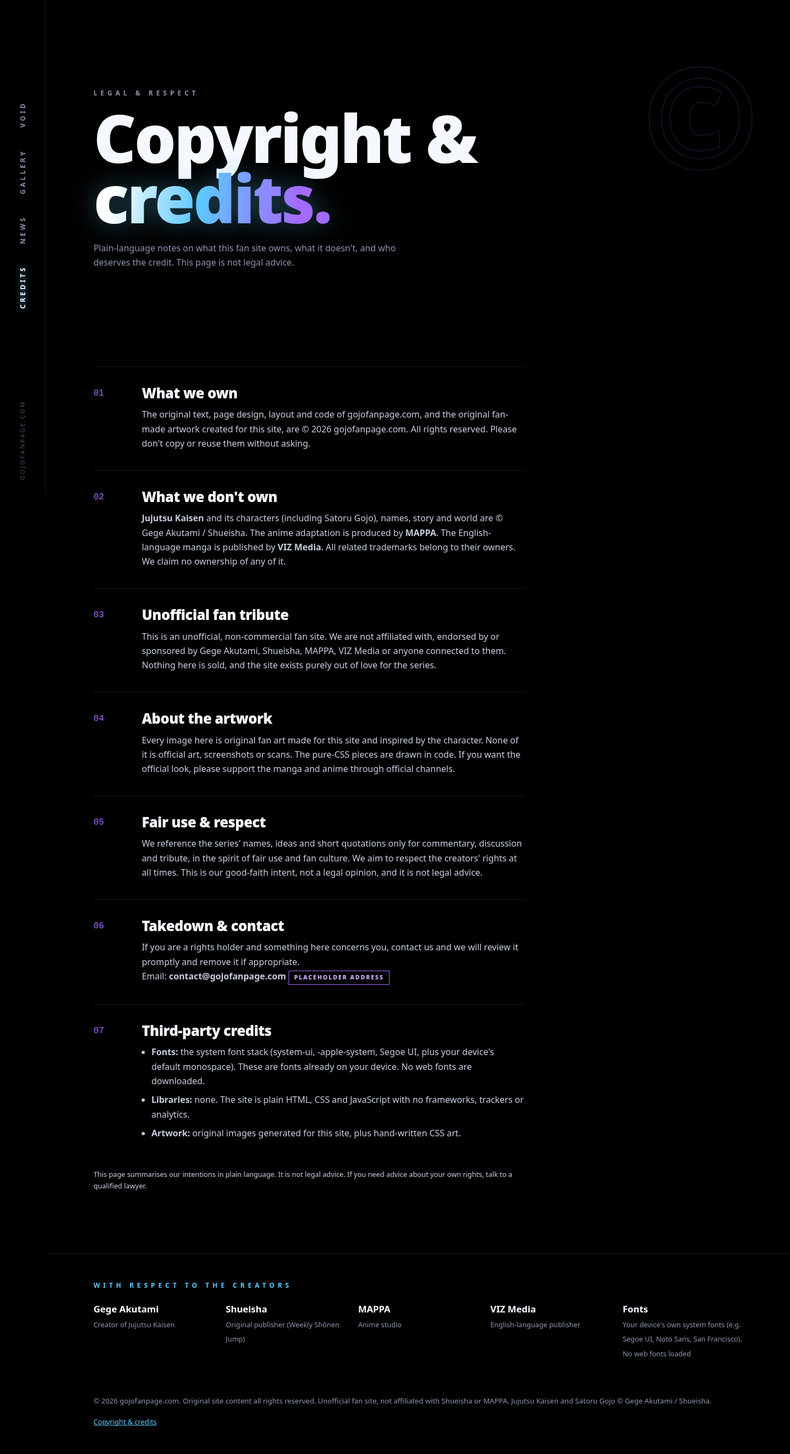
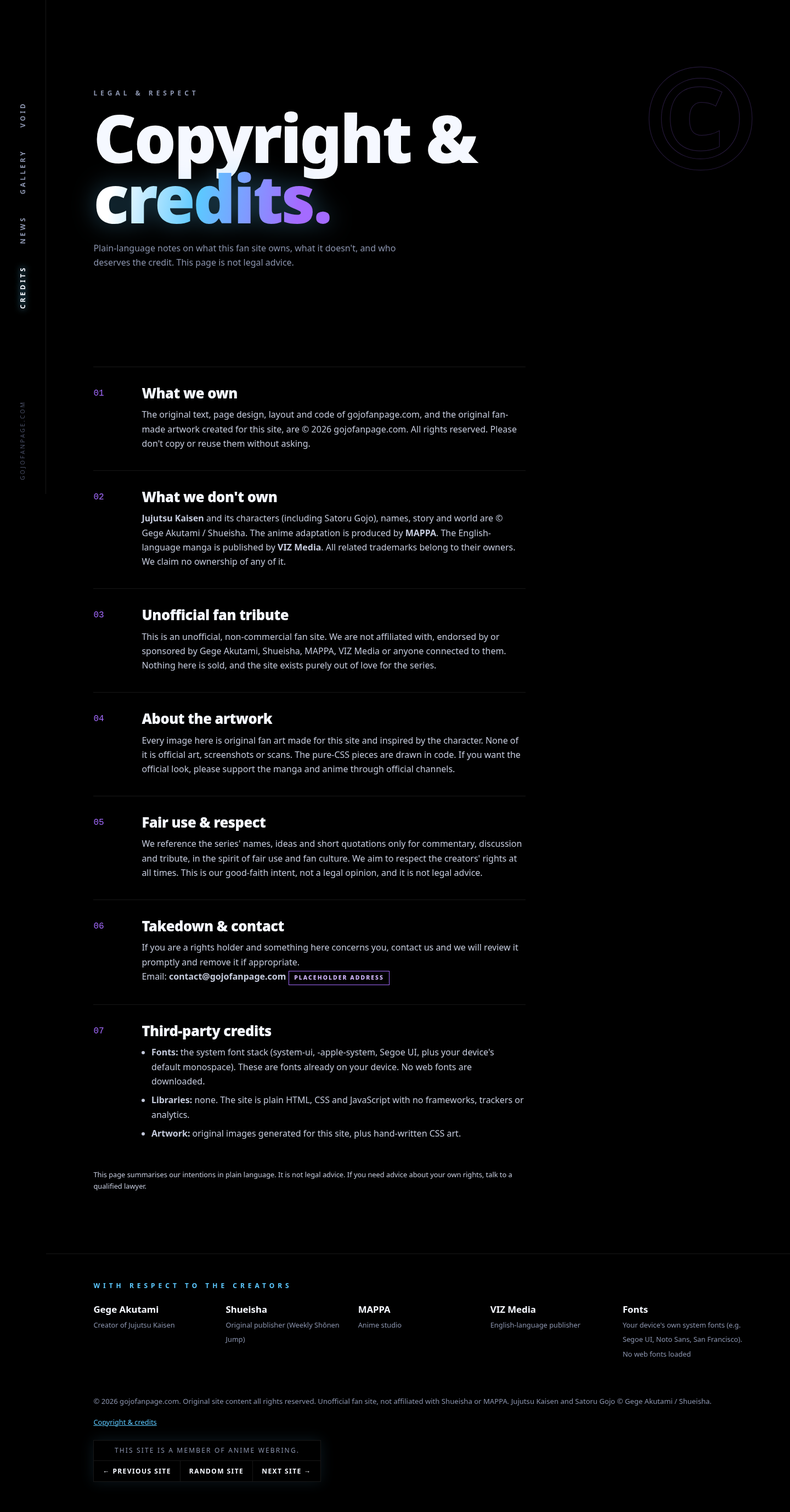
Anime Webring footer widget, commented affiliate disclosure, 3 original news posts, screenshots (local, unpublished)

diff --git a/news.html b/news.html
@@ -2,6 +2,6 @@
 <a class="skip" href="#main">Skip to content</a><canvas id="void" aria-hidden="true"></canvas>
 <nav class="rail" aria-label="Main"><a href="index.html" aria-label="gojofanpage.com home"><span class="mark"></span></a><ul><li><a href="index.html">Void</a></li><li><a href="gallery.html">Gallery</a></li><li><a href="news.html" aria-current="page">News</a></li><li><a href="copyright.html">Credits</a></li></ul><small>GOJOFANPAGE.COM</small></nav>
 <div class="wrap"><main id="main"><section class="phead"><span class="big" aria-hidden="true">NEWS</span><p class="kicker">Transmissions</p><h1>Fan <em>news.</em></h1><p>Recent Jujutsu Kaisen news, summarised in our own words. Every item links to its original source. Dates are each article's publication date, checked October 23, 2026.</p></section>
-<div class="filters" role="group" aria-label="Filter news by category"><button data-f="all" aria-pressed="true">All</button><button data-f="anime" aria-pressed="false">Anime</button><button data-f="manga" aria-pressed="false">Manga</button><button data-f="merch" aria-pressed="false">Merch</button><button data-f="events" aria-pressed="false">Events</button></div>
+<div class="filters" role="group" aria-label="Filter news by category"><button data-f="all" aria-pressed="true">All</button><button data-f="anime" aria-pressed="false">Anime</button><button data-f="manga" aria-pressed="false">Manga</button><button data-f="merch" aria-pressed="false">Merch</button><button data-f="events" aria-pressed="false">Events</button><button data-f="site" aria-pressed="false">Site</button></div>
 <p class="sr" role="status" aria-live="polite" id="fstat"></p>
-<section class="timeline"><article class="entry reveal" data-cat="events"><time datetime="2026-10-19">OCT 19, 2026</time><div><span class="pill v">Verified</span><span class="pill">Events</span><h3>Season 4 news promised for the Jump Festa 2027 stage</h3><p>The official anime team says the latest Season 4 (The Culling Game Part 2) information will be shared at its Jump Super Stage on December 19. Cast members Junya Enoki, Mikako Komatsu, Kazuya Nakai and Daisuke Namikawa are scheduled to appear.</p><a class="src" href="https://animemojo.com/shonen/jujutsu-kaisen-season-4-news-is-coming-at-jump-festa-2027-as-the-anime-confirms-its-stage-cast-a21134" target="_blank" rel="noopener noreferrer">Source: AnimeMojo ↗</a></div></article><article class="entry reveal" data-cat="events"><time datetime="2026-10-04">OCT 4, 2026</time><div><span class="pill v">Verified</span><span class="pill">Events</span><h3>Final Exhibition in Shinjuku adds Shinjuku Showdown material</h3><p>The touring Jujutsu Kaisen exhibition ends at Shinjuku Sumitomo Building Triangle Square from December 25, 2026 to January 25, 2027. This last stop adds never-before-shown storyboards and sketches from Volumes 28–30, Q&A commentary from Gege Akutami, and two random visitor stickers per ticket.</p><a class="src" href="https://us.oricon-group.com/news/9341/" target="_blank" rel="noopener noreferrer">Source: ORICON NEWS ↗</a></div></article><article class="entry reveal" data-cat="manga"><time datetime="2026-09-26">SEP 26, 2026</time><div><span class="pill v">Verified</span><span class="pill">Manga</span><h3>VIZ dates the English print release of Jujutsu Kaisen Modulo</h3><p>Volume 1 of the sequel manga Jujutsu Kaisen Modulo (story by Gege Akutami, art by Yuji Iwasaki) arrives in U.S. print on January 5, 2027. It comes with a standard cover and three retailer-variant covers.</p><a class="src" href="https://comicbook.com/anime/news/jujutsu-kaisen-sequel-confirms-u-s-release-date-with-first-look/" target="_blank" rel="noopener noreferrer">Source: ComicBook.com ↗</a></div></article><article class="entry reveal" data-cat="anime"><time datetime="2026-09-01">SEP 1, 2026</time><div><span class="pill v">Verified</span><span class="pill">Anime</span><h3>New Season 4 visual revealed at Juju Fest 2026</h3><p>A new key visual for The Culling Game Part 2, centred on Sukuna, was shown around Juju Fest 2026 (August 29–30, K-Arena Yokohama), the anime's 5th-anniversary finale event. There is still no release date.</p><a class="src" href="https://samlover.com/2026/09/01/jujutsu-kaisen-season-4-juju-fest-2026/" target="_blank" rel="noopener noreferrer">Source: Samlover ↗</a></div></article><article class="entry reveal" data-cat="merch"><time datetime="2026-07-23">JUL 23, 2026</time><div><span class="pill v">Verified</span><span class="pill">Merch</span><h3>Yokohama collaboration: café, merch and holographic stickers</h3><p>For the anime's 5th anniversary, Yokohama hosted a citywide collaboration through August. It included a themed café at Cafe Fan Base, exclusive acrylic goods and nine holographic mini-character stickers, among them a Gojo, Geto and Shoko design at Yokohama World Porters.</p><a class="src" href="https://us.oricon-group.com/news/9096/" target="_blank" rel="noopener noreferrer">Source: ORICON NEWS ↗</a></div></article><article class="entry reveal" data-cat="anime"><time datetime="2026-06-19">JUN 19, 2026</time><div><span class="pill v">Verified</span><span class="pill">Anime</span><h3>Season 4: The Culling Game Part 2 teaser revealed</h3><p>MAPPA's 15th-anniversary lineup livestream debuted the first Season 4 teaser and confirmed the season is in production. Takeru Sato is directing. No release window yet.</p><a class="src" href="https://www.animenewsnetwork.com/news/2026-06-19/jujutsu-kaisen-season-4-the-culling-game-part-2-anime-reveals-teaser-video/.238700" target="_blank" rel="noopener noreferrer">Source: Anime News Network ↗</a></div></article><p class="empty hidden">No items in this category yet.</p></section></main><div class="credits" aria-label="Credits"><p class="kicker">With respect to the creators</p><ul><li><b>Gege Akutami</b><span>Creator of Jujutsu Kaisen</span></li><li><b>Shueisha</b><span>Original publisher (Weekly Shōnen Jump)</span></li><li><b>MAPPA</b><span>Anime studio</span></li><li><b>VIZ Media</b><span>English-language publisher</span></li><li><b>Fonts</b><span>Your device's own system fonts (e.g. Segoe UI, Noto Sans, San Francisco). No web fonts loaded</span></li></ul></div><footer><p>© 2026 gojofanpage.com. Original site content all rights reserved. Unofficial fan site, not affiliated with Shueisha or MAPPA. Jujutsu Kaisen and Satoru Gojo © Gege Akutami / Shueisha.</p><p class="fine"><a href="copyright.html">Copyright &amp; credits</a></p></footer></div><script src="script.js"></script></body></html>
+<section class="timeline"><article class="entry reveal" data-cat="site"><time datetime="2026-10-23">OCT 23, 2026</time><div><span class="pill v">Original</span><span class="pill">Site update</span><h3>Welcome to gojofanpage.com</h3><p>gojofanpage.com is now open: an unofficial, fan-made home for everything Satoru Gojo. Every image here is original fan art made for this site, and every news item links to its source. We'll keep adding art, spotlights and verified news, and we're always happy to hear what fans want to see next.</p></div></article><article class="entry reveal" data-cat="site"><time datetime="2026-10-23">OCT 23, 2026</time><div><span class="pill v">Original</span><span class="pill">Spotlight</span><h3>Character spotlight: Satoru Gojo</h3><p>In Gege Akutami's Jujutsu Kaisen (published by Shueisha in Weekly Shōnen Jump), Gojo is a special grade jujutsu sorcerer and a teacher at Tokyo Jujutsu High. He is the heir to the Limitless technique and was born with the Six Eyes, and his Domain Expansion is Unlimited Void. What keeps fans coming back is the contrast: a playful, teasing mentor to his students who is also treated as the strongest sorcerer of his time. Which Gojo moment is your favourite?</p></div></article><article class="entry reveal" data-cat="site"><time datetime="2026-10-23">OCT 23, 2026</time><div><span class="pill v">Original</span><span class="pill">Community</span><h3>Call for fan art</h3><p>We want to show off the community's talent. If you make your own original Gojo or Jujutsu Kaisen fan art, we'd love to feature it in a future gallery update, with full credit to you. Please only share work you made yourself: no traced, AI-copied or official artwork. Submission details will be posted here soon.</p></div></article><article class="entry reveal" data-cat="events"><time datetime="2026-10-19">OCT 19, 2026</time><div><span class="pill v">Verified</span><span class="pill">Events</span><h3>Season 4 news promised for the Jump Festa 2027 stage</h3><p>The official anime team says the latest Season 4 (The Culling Game Part 2) information will be shared at its Jump Super Stage on December 19. Cast members Junya Enoki, Mikako Komatsu, Kazuya Nakai and Daisuke Namikawa are scheduled to appear.</p><a class="src" href="https://animemojo.com/shonen/jujutsu-kaisen-season-4-news-is-coming-at-jump-festa-2027-as-the-anime-confirms-its-stage-cast-a21134" target="_blank" rel="noopener noreferrer">Source: AnimeMojo ↗</a></div></article><article class="entry reveal" data-cat="events"><time datetime="2026-10-04">OCT 4, 2026</time><div><span class="pill v">Verified</span><span class="pill">Events</span><h3>Final Exhibition in Shinjuku adds Shinjuku Showdown material</h3><p>The touring Jujutsu Kaisen exhibition ends at Shinjuku Sumitomo Building Triangle Square from December 25, 2026 to January 25, 2027. This last stop adds never-before-shown storyboards and sketches from Volumes 28–30, Q&A commentary from Gege Akutami, and two random visitor stickers per ticket.</p><a class="src" href="https://us.oricon-group.com/news/9341/" target="_blank" rel="noopener noreferrer">Source: ORICON NEWS ↗</a></div></article><article class="entry reveal" data-cat="manga"><time datetime="2026-09-26">SEP 26, 2026</time><div><span class="pill v">Verified</span><span class="pill">Manga</span><h3>VIZ dates the English print release of Jujutsu Kaisen Modulo</h3><p>Volume 1 of the sequel manga Jujutsu Kaisen Modulo (story by Gege Akutami, art by Yuji Iwasaki) arrives in U.S. print on January 5, 2027. It comes with a standard cover and three retailer-variant covers.</p><a class="src" href="https://comicbook.com/anime/news/jujutsu-kaisen-sequel-confirms-u-s-release-date-with-first-look/" target="_blank" rel="noopener noreferrer">Source: ComicBook.com ↗</a></div></article><article class="entry reveal" data-cat="anime"><time datetime="2026-09-01">SEP 1, 2026</time><div><span class="pill v">Verified</span><span class="pill">Anime</span><h3>New Season 4 visual revealed at Juju Fest 2026</h3><p>A new key visual for The Culling Game Part 2, centred on Sukuna, was shown around Juju Fest 2026 (August 29–30, K-Arena Yokohama), the anime's 5th-anniversary finale event. There is still no release date.</p><a class="src" href="https://samlover.com/2026/09/01/jujutsu-kaisen-season-4-juju-fest-2026/" target="_blank" rel="noopener noreferrer">Source: Samlover ↗</a></div></article><article class="entry reveal" data-cat="merch"><time datetime="2026-07-23">JUL 23, 2026</time><div><span class="pill v">Verified</span><span class="pill">Merch</span><h3>Yokohama collaboration: café, merch and holographic stickers</h3><p>For the anime's 5th anniversary, Yokohama hosted a citywide collaboration through August. It included a themed café at Cafe Fan Base, exclusive acrylic goods and nine holographic mini-character stickers, among them a Gojo, Geto and Shoko design at Yokohama World Porters.</p><a class="src" href="https://us.oricon-group.com/news/9096/" target="_blank" rel="noopener noreferrer">Source: ORICON NEWS ↗</a></div></article><article class="entry reveal" data-cat="anime"><time datetime="2026-06-19">JUN 19, 2026</time><div><span class="pill v">Verified</span><span class="pill">Anime</span><h3>Season 4: The Culling Game Part 2 teaser revealed</h3><p>MAPPA's 15th-anniversary lineup livestream debuted the first Season 4 teaser and confirmed the season is in production. Takeru Sato is directing. No release window yet.</p><a class="src" href="https://www.animenewsnetwork.com/news/2026-06-19/jujutsu-kaisen-season-4-the-culling-game-part-2-anime-reveals-teaser-video/.238700" target="_blank" rel="noopener noreferrer">Source: Anime News Network ↗</a></div></article><p class="empty hidden">No items in this category yet.</p></section></main><div class="credits" aria-label="Credits"><p class="kicker">With respect to the creators</p><ul><li><b>Gege Akutami</b><span>Creator of Jujutsu Kaisen</span></li><li><b>Shueisha</b><span>Original publisher (Weekly Shōnen Jump)</span></li><li><b>MAPPA</b><span>Anime studio</span></li><li><b>VIZ Media</b><span>English-language publisher</span></li><li><b>Fonts</b><span>Your device's own system fonts (e.g. Segoe UI, Noto Sans, San Francisco). No web fonts loaded</span></li></ul></div><footer><p>© 2026 gojofanpage.com. Original site content all rights reserved. Unofficial fan site, not affiliated with Shueisha or MAPPA. Jujutsu Kaisen and Satoru Gojo © Gege Akutami / Shueisha.</p><p class="fine"><a href="copyright.html">Copyright &amp; credits</a></p><div class="webring" aria-label="Anime Webring"><p class="wr-t">This site is a member of Anime Webring.</p><div class="wr-l"><a href="https://webri.ng/webring/animewebring/previous?via=https%3A%2F%2Fgojofanpage.com%2F">← Previous Site</a><a href="https://webri.ng/webring/animewebring/random?via=https%3A%2F%2Fgojofanpage.com%2F">Random Site</a><a href="https://webri.ng/webring/animewebring/next?via=https%3A%2F%2Fgojofanpage.com%2F">Next Site →</a></div></div><!-- AFFILIATE DISCLOSURE (enable only after the boss approves an affiliate program): <p class="fine disclosure">Some links on this site are affiliate links. If you buy through them, gojofanpage.com may earn a small commission at no extra cost to you.</p> --></footer></div><script src="script.js"></script></body></html>

diff --git a/gallery.html b/gallery.html
@@ -2,4 +2,4 @@
 <a class="skip" href="#main">Skip to content</a><canvas id="void" aria-hidden="true"></canvas>
 <nav class="rail" aria-label="Main"><a href="index.html" aria-label="gojofanpage.com home"><span class="mark"></span></a><ul><li><a href="index.html">Void</a></li><li><a href="gallery.html" aria-current="page">Gallery</a></li><li><a href="news.html">News</a></li><li><a href="copyright.html">Credits</a></li></ul><small>GOJOFANPAGE.COM</small></nav>
 <div class="wrap"><main id="main"><section class="phead"><span class="big" aria-hidden="true">∞</span><p class="kicker">Gallery</p><h1>Art from<br>the <em>void.</em></h1><p>Original Gojo-inspired pieces, generated for this site plus pure-CSS studies. No official images are used. Select any tile to expand it.</p></section>
-<section class="bento"><button class="tile w2 h2 reveal" aria-label="Open The Honored One"><img src="img/hero-void.jpg" alt="Original artwork: White-haired blindfolded sorcerer silhouette in a cosmic void" loading="lazy"><span class="cap"><span>Original art</span><b>The Honored One</b></span></button><button class="tile h2 reveal" aria-label="Open Six Eyes"><img src="img/six-eyes.jpg" alt="Original artwork: Crystalline glowing blue eye" loading="lazy"><span class="cap"><span>Original art</span><b>Six Eyes</b></span></button><button class="tile  reveal" aria-label="Open Infinity Rings"><div class="css-art ca1" aria-hidden="true"></div><span class="cap"><span>CSS art</span><b>Infinity Rings</b></span></button><button class="tile h2 reveal" aria-label="Open Unlimited Void"><img src="img/void-landscape.jpg" alt="Original artwork: Twin galaxies and a burst of blue-violet light" loading="lazy"><span class="cap"><span>Original art</span><b>Unlimited Void</b></span></button><button class="tile w2 reveal" aria-label="Open Light Streaks"><div class="css-art ca3" aria-hidden="true"></div><span class="cap"><span>CSS art</span><b>Light Streaks</b></span></button><button class="tile full h2 reveal" aria-label="Open Hollow Purple"><img src="img/hollow-purple.jpg" alt="Original artwork: Red and blue orbs fusing into violet energy" loading="lazy"><span class="cap"><span>Original art</span><b>Hollow Purple</b></span></button><button class="tile  reveal" aria-label="Open Domain Spiral"><div class="css-art ca2" aria-hidden="true"></div><span class="cap"><span>CSS art</span><b>Domain Spiral</b></span></button></section></main><div class="credits" aria-label="Credits"><p class="kicker">With respect to the creators</p><ul><li><b>Gege Akutami</b><span>Creator of Jujutsu Kaisen</span></li><li><b>Shueisha</b><span>Original publisher (Weekly Shōnen Jump)</span></li><li><b>MAPPA</b><span>Anime studio</span></li><li><b>VIZ Media</b><span>English-language publisher</span></li><li><b>Fonts</b><span>Your device's own system fonts (e.g. Segoe UI, Noto Sans, San Francisco). No web fonts loaded</span></li></ul></div><footer><p>© 2026 gojofanpage.com. Original site content all rights reserved. Unofficial fan site, not affiliated with Shueisha or MAPPA. Jujutsu Kaisen and Satoru Gojo © Gege Akutami / Shueisha.</p><p class="fine"><a href="copyright.html">Copyright &amp; credits</a></p></footer></div><dialog aria-labelledby="lbt"><div class="lb-img"></div><div class="bar"><b class="lb-t" id="lbt"></b><button class="close">Close ✕</button></div></dialog><script src="script.js"></script></body></html>
+<section class="bento"><button class="tile w2 h2 reveal" aria-label="Open The Honored One"><img src="img/hero-void.jpg" alt="Original artwork: White-haired blindfolded sorcerer silhouette in a cosmic void" loading="lazy"><span class="cap"><span>Original art</span><b>The Honored One</b></span></button><button class="tile h2 reveal" aria-label="Open Six Eyes"><img src="img/six-eyes.jpg" alt="Original artwork: Crystalline glowing blue eye" loading="lazy"><span class="cap"><span>Original art</span><b>Six Eyes</b></span></button><button class="tile  reveal" aria-label="Open Infinity Rings"><div class="css-art ca1" aria-hidden="true"></div><span class="cap"><span>CSS art</span><b>Infinity Rings</b></span></button><button class="tile h2 reveal" aria-label="Open Unlimited Void"><img src="img/void-landscape.jpg" alt="Original artwork: Twin galaxies and a burst of blue-violet light" loading="lazy"><span class="cap"><span>Original art</span><b>Unlimited Void</b></span></button><button class="tile w2 reveal" aria-label="Open Light Streaks"><div class="css-art ca3" aria-hidden="true"></div><span class="cap"><span>CSS art</span><b>Light Streaks</b></span></button><button class="tile full h2 reveal" aria-label="Open Hollow Purple"><img src="img/hollow-purple.jpg" alt="Original artwork: Red and blue orbs fusing into violet energy" loading="lazy"><span class="cap"><span>Original art</span><b>Hollow Purple</b></span></button><button class="tile  reveal" aria-label="Open Domain Spiral"><div class="css-art ca2" aria-hidden="true"></div><span class="cap"><span>CSS art</span><b>Domain Spiral</b></span></button></section></main><div class="credits" aria-label="Credits"><p class="kicker">With respect to the creators</p><ul><li><b>Gege Akutami</b><span>Creator of Jujutsu Kaisen</span></li><li><b>Shueisha</b><span>Original publisher (Weekly Shōnen Jump)</span></li><li><b>MAPPA</b><span>Anime studio</span></li><li><b>VIZ Media</b><span>English-language publisher</span></li><li><b>Fonts</b><span>Your device's own system fonts (e.g. Segoe UI, Noto Sans, San Francisco). No web fonts loaded</span></li></ul></div><footer><p>© 2026 gojofanpage.com. Original site content all rights reserved. Unofficial fan site, not affiliated with Shueisha or MAPPA. Jujutsu Kaisen and Satoru Gojo © Gege Akutami / Shueisha.</p><p class="fine"><a href="copyright.html">Copyright &amp; credits</a></p><div class="webring" aria-label="Anime Webring"><p class="wr-t">This site is a member of Anime Webring.</p><div class="wr-l"><a href="https://webri.ng/webring/animewebring/previous?via=https%3A%2F%2Fgojofanpage.com%2F">← Previous Site</a><a href="https://webri.ng/webring/animewebring/random?via=https%3A%2F%2Fgojofanpage.com%2F">Random Site</a><a href="https://webri.ng/webring/animewebring/next?via=https%3A%2F%2Fgojofanpage.com%2F">Next Site →</a></div></div><!-- AFFILIATE DISCLOSURE (enable only after the boss approves an affiliate program): <p class="fine disclosure">Some links on this site are affiliate links. If you buy through them, gojofanpage.com may earn a small commission at no extra cost to you.</p> --></footer></div><dialog aria-labelledby="lbt"><div class="lb-img"></div><div class="bar"><b class="lb-t" id="lbt"></b><button class="close">Close ✕</button></div></dialog><script src="script.js"></script></body></html>

diff --git a/404.html b/404.html
@@ -1,4 +1,4 @@
 <!doctype html><html lang="en"><head><meta charset="utf-8"><meta name="viewport" content="width=device-width,initial-scale=1"><title>Lost in the Void · gojofanpage.com</title><meta name="description" content="This page drifted into the Unlimited Void. Head back to gojofanpage.com."><meta name="theme-color" content="#000000"><meta property="og:type" content="website"><meta property="og:site_name" content="gojofanpage.com"><meta property="og:title" content="Lost in the Void · gojofanpage.com"><meta property="og:description" content="This page drifted into the Unlimited Void. Head back to gojofanpage.com."><meta property="og:url" content="https://gojofanpage.com/404.html"><meta property="og:image" content="https://gojofanpage.com/img/hero-void.jpg"><meta property="og:image:width" content="1280"><meta property="og:image:height" content="720"><meta property="og:image:alt" content="Original fan artwork: a white-haired sorcerer silhouette in a starry blue-violet void"><meta name="twitter:card" content="summary_large_image"><meta name="twitter:title" content="Lost in the Void · gojofanpage.com"><meta name="twitter:description" content="This page drifted into the Unlimited Void. Head back to gojofanpage.com."><meta name="twitter:image" content="https://gojofanpage.com/img/hero-void.jpg"><link rel="icon" href="/favicon.svg" type="image/svg+xml"><link rel="icon" href="/favicon-32.png" type="image/png" sizes="32x32"><link rel="apple-touch-icon" href="/apple-touch-icon.png"><link rel="stylesheet" href="/style.css"></head><body>
 <a class="skip" href="#main">Skip to content</a><canvas id="void" aria-hidden="true"></canvas>
 <nav class="rail" aria-label="Main"><a href="/index.html" aria-label="gojofanpage.com home"><span class="mark"></span></a><ul><li><a href="/index.html">Void</a></li><li><a href="/gallery.html">Gallery</a></li><li><a href="/news.html" >News</a></li><li><a href="/copyright.html" >Credits</a></li></ul><small>GOJOFANPAGE.COM</small></nav>
-<div class="wrap"><main id="main"><section class="phead"><span class="big" aria-hidden="true">404</span><p class="kicker">Error 404 · Domain not found</p><h1>Lost in the <em>Void.</em></h1><p>This page drifted past Infinity and never arrived. The link may be broken or the page may have moved.</p><div class="cta"><a class="btn" href="/index.html">Return home</a><a class="link" href="/gallery.html">Enter the gallery →</a></div></section></main><div class="credits" aria-label="Credits"><p class="kicker">With respect to the creators</p><ul><li><b>Gege Akutami</b><span>Creator of Jujutsu Kaisen</span></li><li><b>Shueisha</b><span>Original publisher (Weekly Shōnen Jump)</span></li><li><b>MAPPA</b><span>Anime studio</span></li><li><b>VIZ Media</b><span>English-language publisher</span></li><li><b>Fonts</b><span>Your device's own system fonts (e.g. Segoe UI, Noto Sans, San Francisco). No web fonts loaded</span></li></ul></div><footer><p>© 2026 gojofanpage.com. Original site content all rights reserved. Unofficial fan site, not affiliated with Shueisha or MAPPA. Jujutsu Kaisen and Satoru Gojo © Gege Akutami / Shueisha.</p><p class="fine"><a href="/copyright.html">Copyright &amp; credits</a></p></footer></div><script src="/script.js"></script></body></html>
+<div class="wrap"><main id="main"><section class="phead"><span class="big" aria-hidden="true">404</span><p class="kicker">Error 404 · Domain not found</p><h1>Lost in the <em>Void.</em></h1><p>This page drifted past Infinity and never arrived. The link may be broken or the page may have moved.</p><div class="cta"><a class="btn" href="/index.html">Return home</a><a class="link" href="/gallery.html">Enter the gallery →</a></div></section></main><div class="credits" aria-label="Credits"><p class="kicker">With respect to the creators</p><ul><li><b>Gege Akutami</b><span>Creator of Jujutsu Kaisen</span></li><li><b>Shueisha</b><span>Original publisher (Weekly Shōnen Jump)</span></li><li><b>MAPPA</b><span>Anime studio</span></li><li><b>VIZ Media</b><span>English-language publisher</span></li><li><b>Fonts</b><span>Your device's own system fonts (e.g. Segoe UI, Noto Sans, San Francisco). No web fonts loaded</span></li></ul></div><footer><p>© 2026 gojofanpage.com. Original site content all rights reserved. Unofficial fan site, not affiliated with Shueisha or MAPPA. Jujutsu Kaisen and Satoru Gojo © Gege Akutami / Shueisha.</p><p class="fine"><a href="/copyright.html">Copyright &amp; credits</a></p><div class="webring" aria-label="Anime Webring"><p class="wr-t">This site is a member of Anime Webring.</p><div class="wr-l"><a href="https://webri.ng/webring/animewebring/previous?via=https%3A%2F%2Fgojofanpage.com%2F">← Previous Site</a><a href="https://webri.ng/webring/animewebring/random?via=https%3A%2F%2Fgojofanpage.com%2F">Random Site</a><a href="https://webri.ng/webring/animewebring/next?via=https%3A%2F%2Fgojofanpage.com%2F">Next Site →</a></div></div><!-- AFFILIATE DISCLOSURE (enable only after the boss approves an affiliate program): <p class="fine disclosure">Some links on this site are affiliate links. If you buy through them, gojofanpage.com may earn a small commission at no extra cost to you.</p> --></footer></div><script src="/script.js"></script></body></html>

diff --git a/index.html b/index.html
@@ -12,4 +12,4 @@
 <p>Satoru Gojo came into the world as the heir everyone in the Gojo clan had stopped hoping for: the first in roughly four hundred years to be born with both the Six Eyes and the clan's inherited Limitless technique. His birth alone tipped the jujutsu world off balance, and the curses on the other side reportedly grew fiercer in answer. At Tokyo Jujutsu High he was brilliant, cocky and inseparable from his classmate Suguru Geto, with Shoko Ieiri, the healer, completing their trio. Gojo and Geto were called the strongest pair of their generation, and they knew it.</p>
 <p>That certainty broke on one mission: escorting Riko Amanai, the Star Plasma Vessel. The sorcerer killer Toji Fushiguro, a man with no cursed energy at all, slipped past every defense, cut Gojo down and took Riko's life. Near death, Gojo finally grasped Reverse Cursed Technique, healed himself, and returned to defeat Toji with a power no one could match. He walked away as "the strongest." Geto walked away with doubts that grew until he abandoned the sorcerers' path and defected. Left alone at the top, Gojo chose to teach. He set out to raise a new generation strong enough to stand beside him and to change a rotten system from within, starting with Yuji Itadori, Megumi Fushiguro and Nobara Kugisaki.</p></div></section><section class="split reveal"><div class="frame"><img src="img/six-eyes.jpg" alt="Original artwork: a crystalline ice-blue eye with a galaxy-like iris on black" loading="lazy"></div><div><p class="kicker">The Six Eyes</p><h2>See <em>everything.</em></h2><p>Fans describe the Six Eyes as perception turned up to infinity: every flow of cursed energy, rendered in perfect detail.</p><p>This site's look follows that idea: pure black, pinpoint light, and streaks that pull you inward.</p><a class="link" href="gallery.html">View the art →</a></div></section>
 <section class="split reveal"><div><p class="kicker">Fusion</p><h2>Red + Blue =<br><em>Purple.</em></h2><p>Our take on Hollow Purple: two opposing forces colliding at the edge of the void.</p></div><div class="frame"><img src="img/hollow-purple.jpg" alt="Original artwork: a red and a blue orb fusing into violet lightning" loading="lazy"></div></section>
-<section class="reveal"><blockquote>“Throughout heaven and earth, I alone am the honored one.”<cite>Quoted for fan commentary</cite></blockquote></section></main><div class="credits" aria-label="Credits"><p class="kicker">With respect to the creators</p><ul><li><b>Gege Akutami</b><span>Creator of Jujutsu Kaisen</span></li><li><b>Shueisha</b><span>Original publisher (Weekly Shōnen Jump)</span></li><li><b>MAPPA</b><span>Anime studio</span></li><li><b>VIZ Media</b><span>English-language publisher</span></li><li><b>Fonts</b><span>Your device's own system fonts (e.g. Segoe UI, Noto Sans, San Francisco). No web fonts loaded</span></li></ul></div><footer><p>© 2026 gojofanpage.com. Original site content all rights reserved. Unofficial fan site, not affiliated with Shueisha or MAPPA. Jujutsu Kaisen and Satoru Gojo © Gege Akutami / Shueisha.</p><p class="fine"><a href="copyright.html">Copyright &amp; credits</a></p></footer></div><script src="script.js"></script></body></html>
+<section class="reveal"><blockquote>“Throughout heaven and earth, I alone am the honored one.”<cite>Quoted for fan commentary</cite></blockquote></section></main><div class="credits" aria-label="Credits"><p class="kicker">With respect to the creators</p><ul><li><b>Gege Akutami</b><span>Creator of Jujutsu Kaisen</span></li><li><b>Shueisha</b><span>Original publisher (Weekly Shōnen Jump)</span></li><li><b>MAPPA</b><span>Anime studio</span></li><li><b>VIZ Media</b><span>English-language publisher</span></li><li><b>Fonts</b><span>Your device's own system fonts (e.g. Segoe UI, Noto Sans, San Francisco). No web fonts loaded</span></li></ul></div><footer><p>© 2026 gojofanpage.com. Original site content all rights reserved. Unofficial fan site, not affiliated with Shueisha or MAPPA. Jujutsu Kaisen and Satoru Gojo © Gege Akutami / Shueisha.</p><p class="fine"><a href="copyright.html">Copyright &amp; credits</a></p><div class="webring" aria-label="Anime Webring"><p class="wr-t">This site is a member of Anime Webring.</p><div class="wr-l"><a href="https://webri.ng/webring/animewebring/previous?via=https%3A%2F%2Fgojofanpage.com%2F">← Previous Site</a><a href="https://webri.ng/webring/animewebring/random?via=https%3A%2F%2Fgojofanpage.com%2F">Random Site</a><a href="https://webri.ng/webring/animewebring/next?via=https%3A%2F%2Fgojofanpage.com%2F">Next Site →</a></div></div><!-- AFFILIATE DISCLOSURE (enable only after the boss approves an affiliate program): <p class="fine disclosure">Some links on this site are affiliate links. If you buy through them, gojofanpage.com may earn a small commission at no extra cost to you.</p> --></footer></div><script src="script.js"></script></body></html>

diff --git a/copyright.html b/copyright.html
@@ -11,4 +11,4 @@
 <article><span class="n">06</span><div><h2>Takedown &amp; contact</h2><p>If you are a rights holder and something here concerns you, contact us and we will review it promptly and remove it if appropriate.<br>Email: <b>contact@gojofanpage.com</b> <span class="pill ph">Placeholder address</span></p></div></article>
 <article><span class="n">07</span><div><h2>Third-party credits</h2><ul class="list"><li><b>Fonts:</b> the system font stack (system-ui, -apple-system, Segoe UI, plus your device's default monospace). These are fonts already on your device. No web fonts are downloaded.</li><li><b>Libraries:</b> none. The site is plain HTML, CSS and JavaScript with no frameworks, trackers or analytics.</li><li><b>Artwork:</b> original images generated for this site, plus hand-written CSS art.</li></ul></div></article>
 <p class="fine">This page summarises our intentions in plain language. It is not legal advice. If you need advice about your own rights, talk to a qualified lawyer.</p>
-</section></main><div class="credits" aria-label="Credits"><p class="kicker">With respect to the creators</p><ul><li><b>Gege Akutami</b><span>Creator of Jujutsu Kaisen</span></li><li><b>Shueisha</b><span>Original publisher (Weekly Shōnen Jump)</span></li><li><b>MAPPA</b><span>Anime studio</span></li><li><b>VIZ Media</b><span>English-language publisher</span></li><li><b>Fonts</b><span>Your device's own system fonts (e.g. Segoe UI, Noto Sans, San Francisco). No web fonts loaded</span></li></ul></div><footer><p>© 2026 gojofanpage.com. Original site content all rights reserved. Unofficial fan site, not affiliated with Shueisha or MAPPA. Jujutsu Kaisen and Satoru Gojo © Gege Akutami / Shueisha.</p><p class="fine"><a href="copyright.html">Copyright &amp; credits</a></p></footer></div><script src="script.js"></script></body></html>
+</section></main><div class="credits" aria-label="Credits"><p class="kicker">With respect to the creators</p><ul><li><b>Gege Akutami</b><span>Creator of Jujutsu Kaisen</span></li><li><b>Shueisha</b><span>Original publisher (Weekly Shōnen Jump)</span></li><li><b>MAPPA</b><span>Anime studio</span></li><li><b>VIZ Media</b><span>English-language publisher</span></li><li><b>Fonts</b><span>Your device's own system fonts (e.g. Segoe UI, Noto Sans, San Francisco). No web fonts loaded</span></li></ul></div><footer><p>© 2026 gojofanpage.com. Original site content all rights reserved. Unofficial fan site, not affiliated with Shueisha or MAPPA. Jujutsu Kaisen and Satoru Gojo © Gege Akutami / Shueisha.</p><p class="fine"><a href="copyright.html">Copyright &amp; credits</a></p><div class="webring" aria-label="Anime Webring"><p class="wr-t">This site is a member of Anime Webring.</p><div class="wr-l"><a href="https://webri.ng/webring/animewebring/previous?via=https%3A%2F%2Fgojofanpage.com%2F">← Previous Site</a><a href="https://webri.ng/webring/animewebring/random?via=https%3A%2F%2Fgojofanpage.com%2F">Random Site</a><a href="https://webri.ng/webring/animewebring/next?via=https%3A%2F%2Fgojofanpage.com%2F">Next Site →</a></div></div><!-- AFFILIATE DISCLOSURE (enable only after the boss approves an affiliate program): <p class="fine disclosure">Some links on this site are affiliate links. If you buy through them, gojofanpage.com may earn a small commission at no extra cost to you.</p> --></footer></div><script src="script.js"></script></body></html>

diff --git a/style.css b/style.css
@@ -122,3 +122,11 @@ footer{border-top:0}
 .src{display:inline-block;margin-top:.7rem;font-size:.8rem;font-weight:700;letter-spacing:.08em;text-decoration:none;border-bottom:1px solid var(--v);color:var(--w)}
 .src:hover{color:var(--b)}
 .hidden{display:none!important}.empty{color:var(--m)}
+
+.webring{width:fit-content;margin:1.4rem 0 .4rem;border:1px solid var(--line);text-align:center;background:#000;box-shadow:0 0 24px rgba(92,200,255,.12)}
+.webring .wr-t{margin:0;padding:.5rem 1rem;font-size:.75rem;letter-spacing:.18em;text-transform:uppercase;color:var(--m);border-bottom:1px solid var(--line)}
+.webring .wr-l{display:flex}
+.webring .wr-l a{flex:1;padding:.55rem 1rem;font-size:.75rem;font-weight:700;letter-spacing:.12em;text-transform:uppercase;text-decoration:none;color:var(--w);border-right:1px solid var(--line);transition:.3s;white-space:nowrap}
+.webring .wr-l a:last-child{border-right:0}
+.webring .wr-l a:hover{color:var(--b);background:rgba(92,200,255,.06)}
+@media(max-width:560px){.webring{width:100%}.webring .wr-l{flex-direction:column}.webring .wr-l a{border-right:0;border-top:1px solid var(--line)}}
